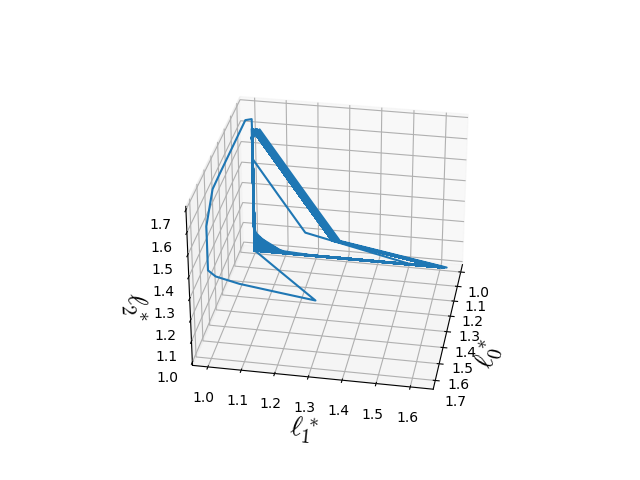
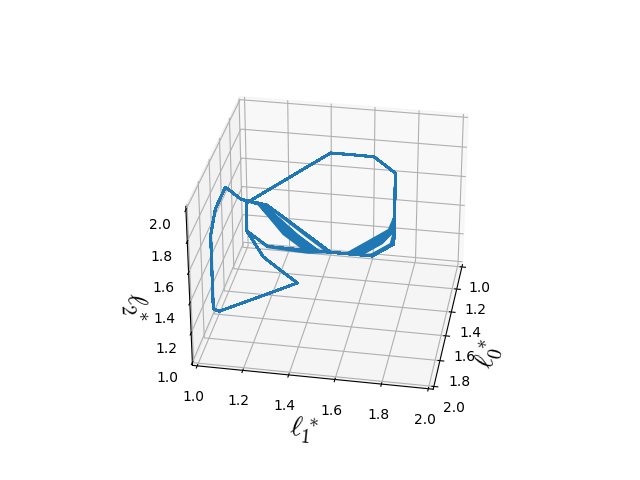
commit

Changed region(s): [[0.2188, 0.2188, 0.7812, 0.9062]]

diff --git a/sim/analysis/arm_length/arm_length_space_triangle.py b/sim/analysis/arm_length/arm_length_space_triangle.py
@@ -17,8 +17,8 @@ def main():
 
     # intervals = np.arange(0.1, 1.0, 0.2)
     # lengths = np.arange(1.1, 2.0, 0.2)
-    intervals = [0.7]
-    lengths   = [1.5]
+    intervals = [0.3]
+    lengths   = [1.7]
 
     for interval in tqdm(intervals):
         for length in tqdm(lengths, leave=False):
